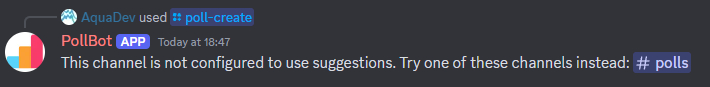
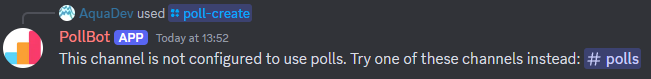
Updated Warning Message 5

Changed region(s): [[0.0, 0.3544, 0.9831, 0.8861], [0.0307, 0.0506, 0.3994, 0.3038]]

diff --git a/src/PollBot/commands/Polls/poll.js b/src/PollBot/commands/Polls/poll.js
@@ -25,7 +25,7 @@ module.exports = {
 
             if (!guildConfiguration.pollChannelIds.includes(interaction.channelId)) {
                 await interaction.reply(
-                    `This channel is not configured to use suggestions. Try one of these channels instead: ${guildConfiguration.
+                    `This channel is not configured to use polls. Try one of these channels instead: ${guildConfiguration.
                         pollChannelIds
                         .map((id) => `<#${id}>`)
                         .join(', ')}`
